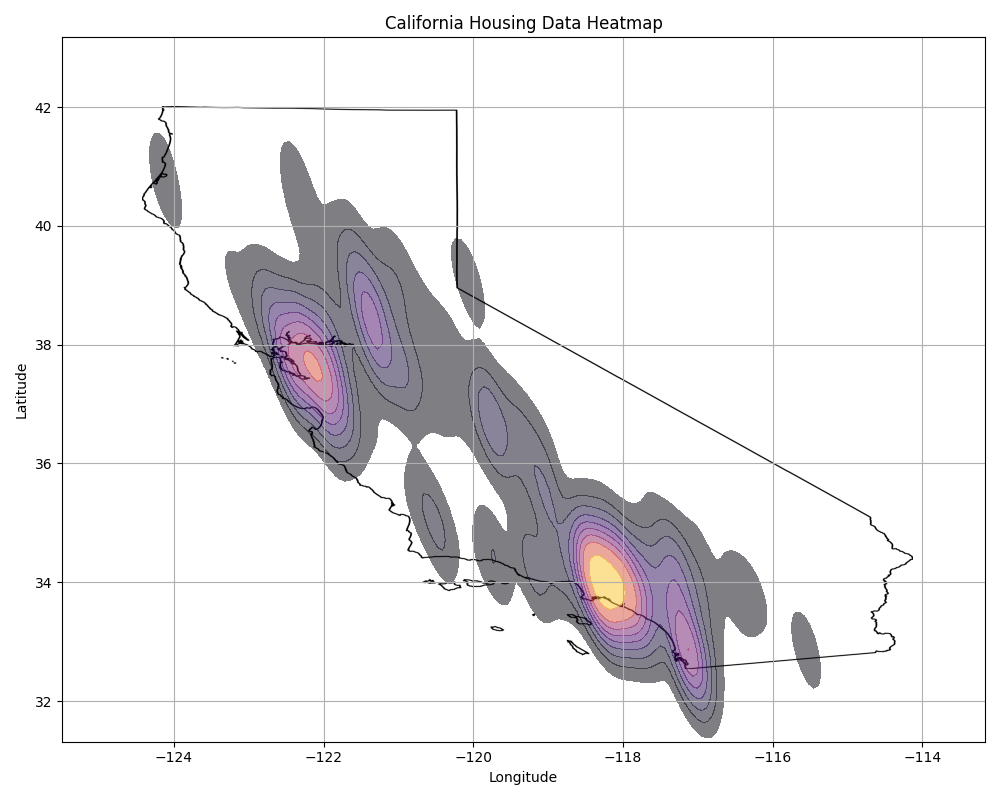
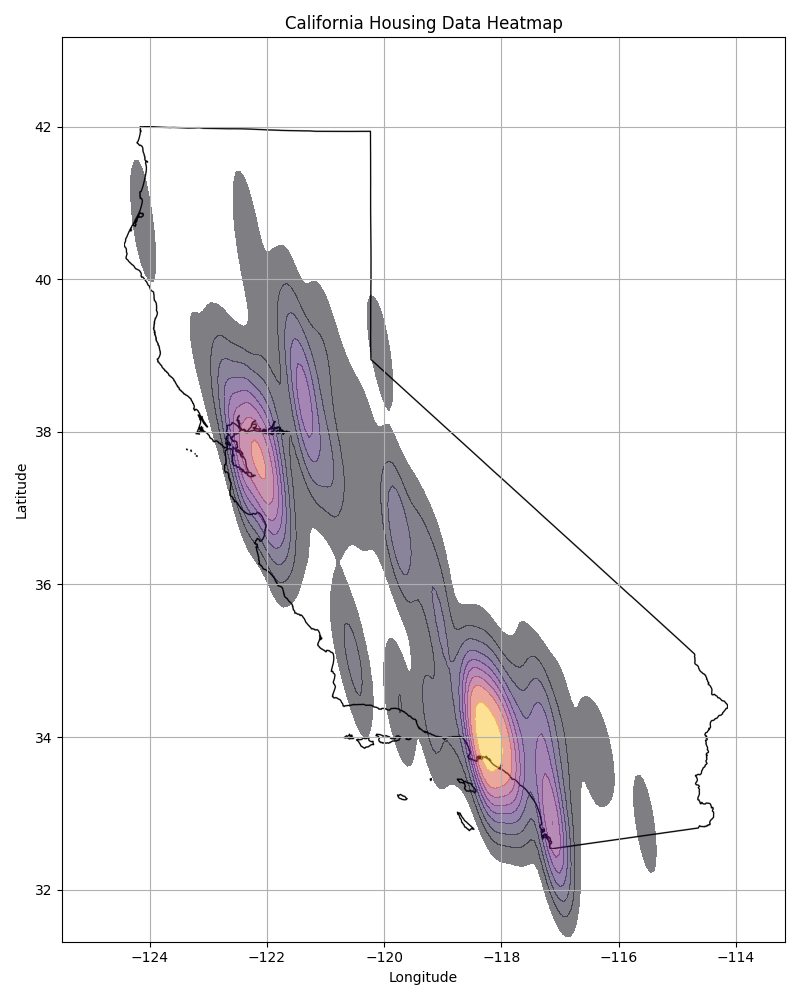
Updated bar plot size to make labels readable

diff --git a/src/eda.py b/src/eda.py
@@ -33,7 +33,7 @@ plt.show()
 img = mpimg.imread("Map_of_California_outline.png")
 print("Loaded California map.")
 
-fig, ax = plt.subplots(figsize=(10,8))
+fig, ax = plt.subplots(figsize=(8,10))
 # Lon & Lat bounds: https://en.wikipedia.org/wiki/California 
 # Latitude	32°32′ N to 42° N = 32.533...° to 42°
 # Longitude	114°8′ W to 124°26′ W = -114.133...° to -124.433...°
@@ -69,6 +69,7 @@ plt.show()
 
 # -----Bar Plot-----
 mean = df.groupby('housing_median_age')['median_house_value'].mean()
+plt.figure(figsize=(15,10))
 mean.plot(kind='bar')
 plt.title("Mean House Value & Housing Median Age")
 plt.xlabel("Median House Age")
